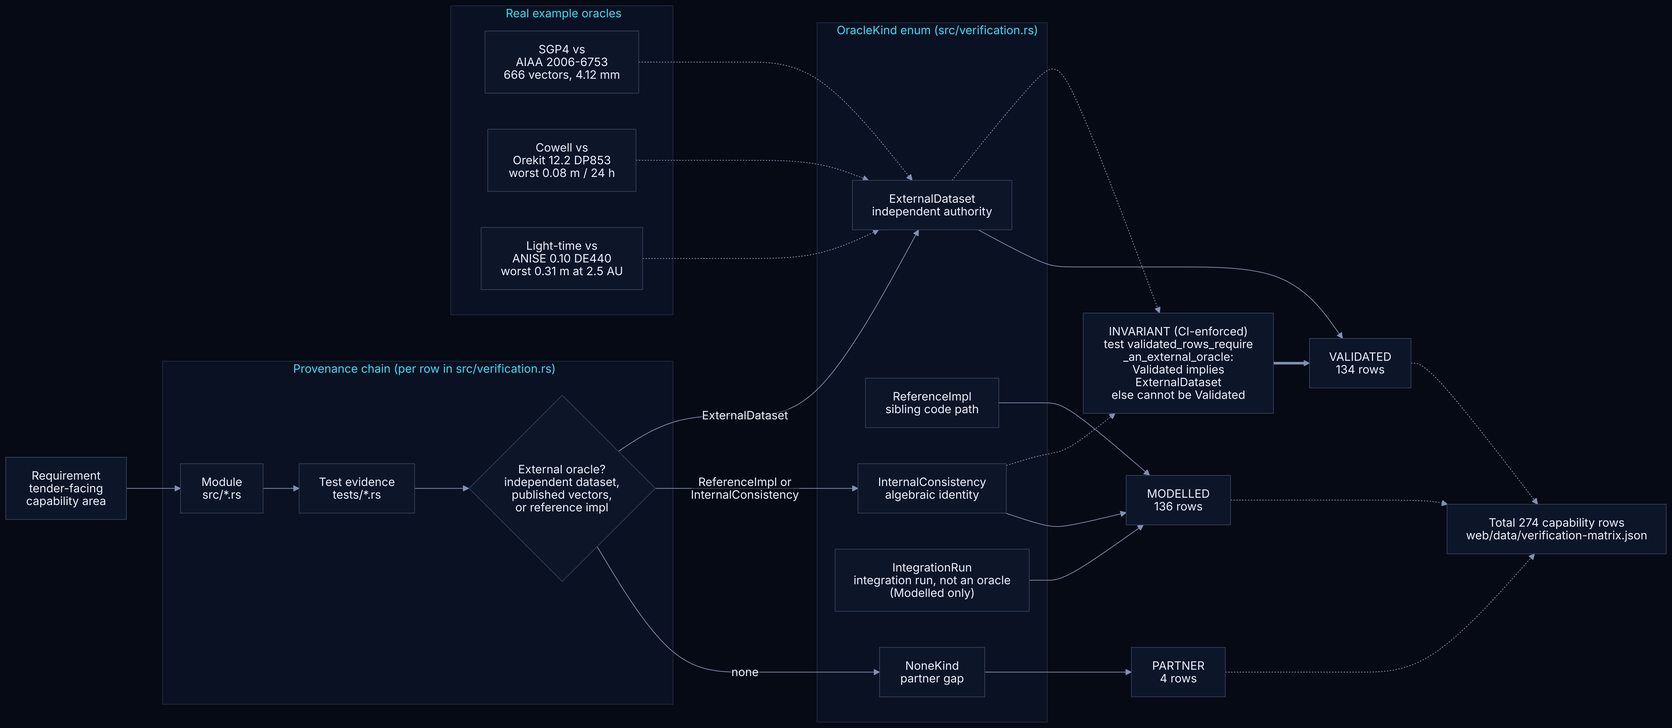
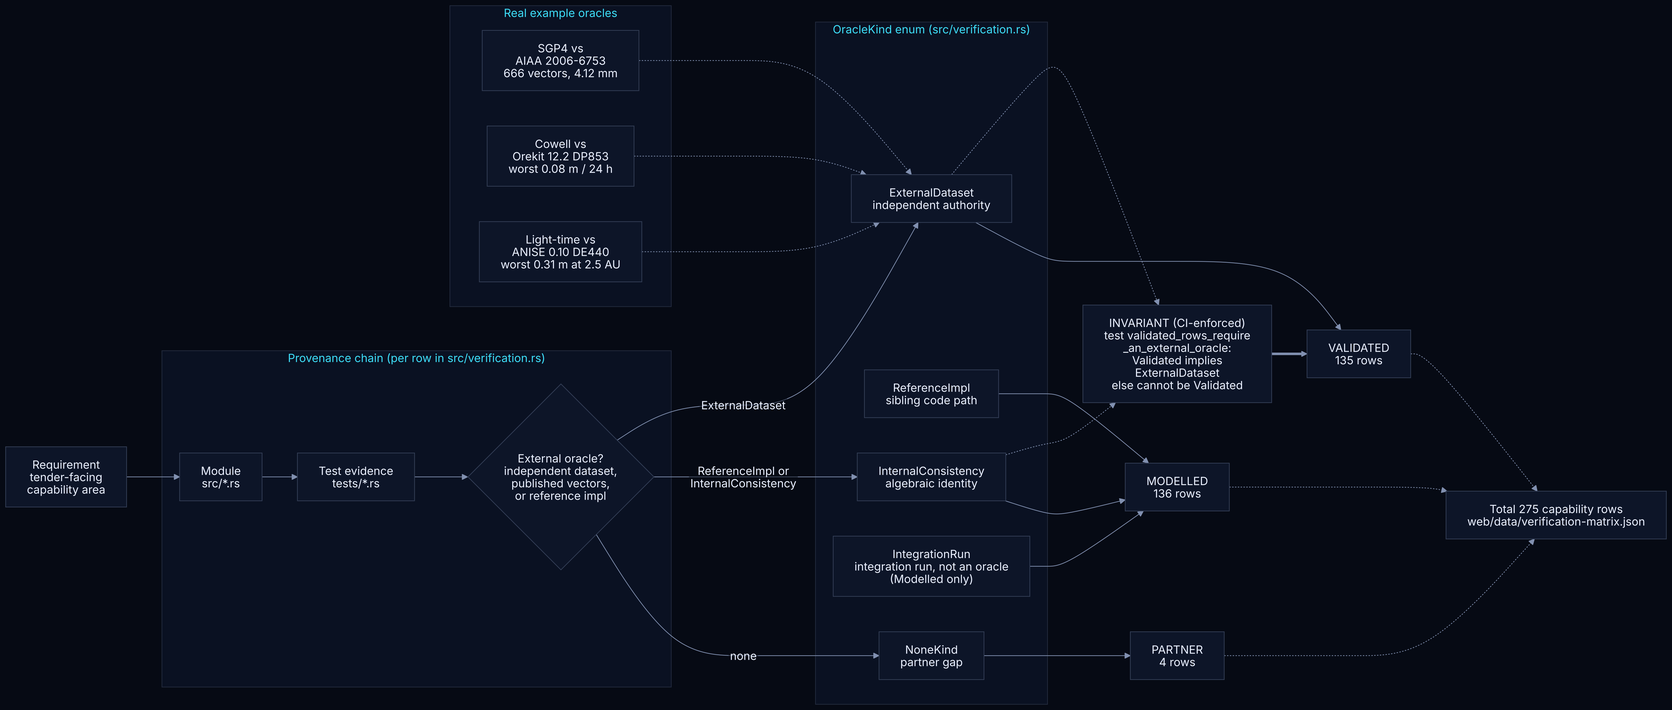
fix(gates): oracle basis for the ICGEM row; counts and figures regenerated for 275 rows; CAPABILITY note
The full suite flagged two gates on the new Validated row 'Gravity-anomaly synthesis from a
spherical-harmonic model':
- validated_oracle_basis gains its entry (Library: the ICGEM Calculation Service, cited
  test egm2008_n70_matches_cited_icgem_values).
- The matrix is now 275 rows, 135 VALIDATED / 136 MODELLED / 4 PARTNER. The README and
  package-README count sites named by the doc-sync tests are updated (the exempt Studio
  screenshot alt is left as is). docs/diagrams/validation-provenance.mmd is updated and
  re-rendered with mermaid-cli 11.4.2 and tools/render-diagram.sh (labels checked by eye).
  The validation figures are regenerated with tools/gen_validation_figures.py; PNGs whose
  SVG did not change are left untouched.
- README: 151 scenario files (the two new bundled scenarios).

docs/CAPABILITY.md: the alt-PNT row's stale "still missing" list is replaced by the 0.36 state.
The audit item "EMAG2 into terrain-nav" is covered by RM-16: terrain-nav is the DEM-only
single-channel matcher by design, and magnetic matching lives in combined-altpnt, which now
takes the EMAG2 grid.

Still red, known and outside this branch: the web/* count gates (263 rows, 75 kinds), fixed
by the final site run.

diff --git a/src/verification.rs b/src/verification.rs
@@ -3047,6 +3047,13 @@ pub fn validated_oracle_basis() -> Vec<OracleBasisEntry> {
             flag: "",
         },
         OracleBasisEntry {
+            requirement: "Gravity-anomaly synthesis from a spherical-harmonic model",
+            basis: Library,
+            oracle_test: "tests/icgem_gravity_anomaly_oracle.rs::egm2008_n70_matches_cited_icgem_values",
+            source: "ICGEM Calculation Service (GFZ Potsdam)",
+            flag: "",
+        },
+        OracleBasisEntry {
             requirement: "CCSDS OEM interoperability (GMAT/Orekit/STK ephemeris import)",
             basis: Library,
             oracle_test: "tests/ccsds_oem_interop_reference.rs",

diff --git a/docs/CAPABILITY.md b/docs/CAPABILITY.md
@@ -65,7 +65,7 @@ adjacent models are deliberately first-order and MODELLED, never validated fligh
 | Telemetry / TT&C / CCSDS | partial | bespoke TOML-in/JSON-out; **CCSDS OEM (Orbit Ephemeris Message) export *and import*** (502.0-B KVN (keyword-value notation), GMAT/Orekit/STK) via the runnable **`oem-interop` kind** (`src/oem.rs` `parse_oem` round-trip bridge; the conformant single-object interchange is **VALIDATED** against the independent `oem` 0.4.5 parser); **CCSDS-TDM (503) Tracking-Data-Message parse + emit** (`src/ccsds_tdm.rs`, the deep-space radiometric interchange format); and the **`space-packet` kind** (`src/space_packet.rs`): **CCSDS 133.0-B Space Packet** primary-header encode/decode with bit-exact round-trip. Other CCSDS message types (ODM/AEM (AEM: Attitude Ephemeris Message)) and SPICE interop remain a roadmap item (P2) |
 | Interoperability & standards (RINEX/SP3/SPICE/CCSDS) | partial | RINEX 3 **multi-GNSS NAV** — GPS, Galileo, QZSS, BeiDou MEO/IGSO (IS-GPS-200) **and GLONASS** (PZ-90 (PZ: Parametry Zemli, the Russian geodetic datum) state-vector RK4) — ingested + propagated + runnable as one mixed constellation; **RINEX 3 OBSERVATION parser** (pseudorange/carrier/Doppler/SNR by observation code, with LLI/SSI (LLI: loss-of-lock indicator; SSI: signal strength indicator) flags; 4.00 expected to parse, untested); SP3-c/d precise-ephemeris **read ↔ write round trip** (parse + export for Ginan/RTKLIB/gLAB) **and a 10th-order (11-point) Lagrange propagator** (`Propagator::Sp3Precise`); SP3 export is **CLI-exposed** (`kshana <orbit.toml> --export-sp3 out.sp3`, or `export_sp3 = true`) and **round-trip-validated** against the real GPS constellation to <0.5 m over 24 h (`tests/sp3_export_roundtrip.rs`); **CCSDS OEM 2.0 ephemeris writer** — the velocity-carrying TEME state export for flight-dynamics tools — now **CLI-exposed** (`kshana <orbit.toml> --export-oem out.oem`, or `export_oem = true`) and round-trip-checked against the propagator state (`tests/sp3_export_roundtrip.rs`). The **RINEX observation parser now feeds a single-point-positioning solution** (`pvt`, validated on real IGS data — see the GNSS / PNT row). Plus **CCSDS-TDM (503)** tracking-data-message parse + emit (`src/ccsds_tdm.rs`). Geometry exports for viewers and mission-analysis tools: **CZML, KML (Keyhole Markup Language), GeoJSON and STK ephemeris** (`--export`, `src/interop/`), each parsed back by a validator written from the format's specification (`tests/interop_formats.rs`), a GeoJSON route import (`--import-route`), **SigMF** (Signal Metadata Format) recordings in and out for the `spectrum` kind, and RINEX-4-style / CSV text for the LEO navigation message ([`INTEROP.md`](INTEROP.md), [`STANDARDS.md`](STANDARDS.md)). No BeiDou-GEO, no SP3 clock interpolation, no carrier-phase PPP/RTK, no SPICE / no ODM·AEM yet (the **OEM reader now exists** via the `oem-interop` kind) — **P2** "annex adjacent domains via standard formats" |
 | Space weather / environment (iono/atmo/radiation) | partial | `space-weather` kind (`src/space_weather.rs`): solar/geomagnetic indices (**Kp↔ap** IAGA (International Association of Geomagnetism and Aeronomy) 28-step table, daily Ap, centred 81-day **F10.7a**), **Jacchia-71 exospheric temperature**, and an **activity-driven thermospheric-density coupling** over a static atmosphere — MODELLED first-order, **NOT** an NRLMSISE absolute-density model. Ionosphere: the Klobuchar broadcast model (VALIDATED against RTKLIB) and an IONEX (IONosphere map EXchange format) TEC (total electron content) map reader (`src/ionex.rs`, unit-tested, not yet cross-checked against a real product); no physics-based or space-weather-driven ionosphere model; P2+ |
-| Gravity-map / alt-PNT navigation | partial | `src/gravimeter.rs`: a cold-atom **gravimeter measurement model** whose white-noise floor is derived from the CAI accelerometer ASD (`σ = ASD/√τ`), a low-degree **fully-normalised spherical-harmonic gravity-anomaly field** (validated against the closed-form Legendre functions and a hand-derived single-term anomaly) plus synthetic **mascons**, and a **gravity-map-matching particle filter** (composing `mapmatch` + `particle_filter`) that recovers a GPS-denied track from the anomaly sequence it flies through. The **60-minute GPS-denied benchmark** (`run_gps_denied_gravity_nav`, `scenarios/gps-denied-gravity-nav.toml`) flies a ~700 km / one-hour outage where the inertial solution drifts to **≈ 70 km**, and a **hierarchical coarse-to-fine** matcher with the gravimeter's deterministic seeded white noise recovers it to **≈ 145 m (< 500 m)** — stable across noise realisations, and provably refinement-limited (a single coarse grid stalls at ~2 km). Plus a **full IGRF-14 (IGRF: International Geomagnetic Reference Field) geomagnetic main-field model** (`src/igrf.rs`: the IAGA Schmidt-normalised spherical-harmonic field to degree/order 13, 2025.0 + secular variation, coefficients machine-generated from the official `igrf14coeffs.txt`; validated against the closed-form tilted dipole, a finite-difference of the scalar potential, and the known geomagnetic pole/strength) — the magnetic field a platform can map-match for magnetic-anomaly navigation. Plus **terrain-referenced navigation (TERCOM/SITAN (TERCOM: terrain contour matching; SITAN: Sandia Inertial Terrain-Aided Navigation))** and the **combined gravity+magnetic+terrain navigator** (`src/altpnt/terrain.rs`): a hand-rolled SRTM (Shuttle Radar Topography Mission) `.hgt` digital-elevation-model (DEM) parser (16-bit signed big-endian, row-major, north-row-first, void -32768; validated against the GDAL (Geospatial Data Abstraction Library) SRTMHGT (Shuttle Radar Topography Mission height-file format) driver spec and a closed-form bilinear-midpoint oracle), a radar/baro **altimeter** model and `run_terrain_nav` matcher that recovers a GPS-denied track from the ground-elevation profile against the DEM, and `run_combined_altpnt` which fuses **three scalar field channels** per waypoint (Δg mGal · |B| nT crustal-anomaly · elevation m) so the joint posterior is sharper (lower CRLB (Cramér–Rao lower bound)) than any single field — bounded < 500 m over the 60-min outage and, in expectation, no worse than the best single channel. Plus **sequential (recursive) terrain-referenced navigation — SITAN as a running filter** (`src/altpnt/sequential.rs`, `run_sequential_trn`): the same altimeter-vs-DEM measurement model run **epoch by epoch** through the `particle_filter` SIR (sampling importance resampling) engine (predict by the INS increment + process noise → reweight by the terrain match → resample on degeneracy), so a **time-varying** INS drift is *tracked* along the track where the batch matcher only recovers a single constant offset — the recursive estimate stays bounded and re-converges (final ≈ 70 m) while the unaided solution diverges unbounded to ≈ 5 km, with per-epoch error following terrain distinctiveness and an effective-sample-size health monitor. Honest scope: the map is **known and fixed** — recursive *localization* against a stored DEM (the localization half of terrain SLAM (simultaneous localisation and mapping)), not joint map estimation. All four are now **scenario-engine `kind=` wired** (`gravity-map`, `terrain-nav`, `combined-altpnt`, `terrain-slam`) with an SVG drift chart (`scenarios/terrain-nav.toml`, `scenarios/combined-altpnt.toml`, `scenarios/terrain-slam.toml`). **Still missing: a real high-resolution gravity map in the navigator** — the loader exists (`gravity_sh::from_gfc` reads ICGEM EGM2008 (Earth Gravitational Model 2008) or EIGEN (European Improved Gravity model of the Earth by New techniques) files, and the synthesis is VALIDATED against the GRS80 (Geodetic Reference System 1980) normal field), but the `gravity-map` navigator still flies a low-degree field plus mascons, a Monte-Carlo over map-representation-error realisations, and a real high-frequency **crustal** magnetic-anomaly map (the magnetic channel rides on the smooth IGRF main field plus synthetic crustal mascons; the CI terrain field is the self-contained synthetic DEM, with `#[ignore]`-gated real-SRTM-tile checks against published Whitney/Badwater spot-heights via `tools/fetch_srtm_tile.py`). P3 |
+| Gravity-map / alt-PNT navigation | partial | `src/gravimeter.rs`: a cold-atom **gravimeter measurement model** whose white-noise floor is derived from the CAI accelerometer ASD (`σ = ASD/√τ`), a low-degree **fully-normalised spherical-harmonic gravity-anomaly field** (validated against the closed-form Legendre functions and a hand-derived single-term anomaly) plus synthetic **mascons**, and a **gravity-map-matching particle filter** (composing `mapmatch` + `particle_filter`) that recovers a GPS-denied track from the anomaly sequence it flies through. The **60-minute GPS-denied benchmark** (`run_gps_denied_gravity_nav`, `scenarios/gps-denied-gravity-nav.toml`) flies a ~700 km / one-hour outage where the inertial solution drifts to **≈ 70 km**, and a **hierarchical coarse-to-fine** matcher with the gravimeter's deterministic seeded white noise recovers it to **≈ 145 m (< 500 m)** — stable across noise realisations, and provably refinement-limited (a single coarse grid stalls at ~2 km). Plus a **full IGRF-14 (IGRF: International Geomagnetic Reference Field) geomagnetic main-field model** (`src/igrf.rs`: the IAGA Schmidt-normalised spherical-harmonic field to degree/order 13, 2025.0 + secular variation, coefficients machine-generated from the official `igrf14coeffs.txt`; validated against the closed-form tilted dipole, a finite-difference of the scalar potential, and the known geomagnetic pole/strength) — the magnetic field a platform can map-match for magnetic-anomaly navigation. Plus **terrain-referenced navigation (TERCOM/SITAN (TERCOM: terrain contour matching; SITAN: Sandia Inertial Terrain-Aided Navigation))** and the **combined gravity+magnetic+terrain navigator** (`src/altpnt/terrain.rs`): a hand-rolled SRTM (Shuttle Radar Topography Mission) `.hgt` digital-elevation-model (DEM) parser (16-bit signed big-endian, row-major, north-row-first, void -32768; validated against the GDAL (Geospatial Data Abstraction Library) SRTMHGT (Shuttle Radar Topography Mission height-file format) driver spec and a closed-form bilinear-midpoint oracle), a radar/baro **altimeter** model and `run_terrain_nav` matcher that recovers a GPS-denied track from the ground-elevation profile against the DEM, and `run_combined_altpnt` which fuses **three scalar field channels** per waypoint (Δg mGal · |B| nT crustal-anomaly · elevation m) so the joint posterior is sharper (lower CRLB (Cramér–Rao lower bound)) than any single field — bounded < 500 m over the 60-min outage and, in expectation, no worse than the best single channel. Plus **sequential (recursive) terrain-referenced navigation — SITAN as a running filter** (`src/altpnt/sequential.rs`, `run_sequential_trn`): the same altimeter-vs-DEM measurement model run **epoch by epoch** through the `particle_filter` SIR (sampling importance resampling) engine (predict by the INS increment + process noise → reweight by the terrain match → resample on degeneracy), so a **time-varying** INS drift is *tracked* along the track where the batch matcher only recovers a single constant offset — the recursive estimate stays bounded and re-converges (final ≈ 70 m) while the unaided solution diverges unbounded to ≈ 5 km, with per-epoch error following terrain distinctiveness and an effective-sample-size health monitor. Honest scope: the map is **known and fixed** — recursive *localization* against a stored DEM (the localization half of terrain SLAM (simultaneous localisation and mapping)); joint map estimation is the separate RBPF below. All four are now **scenario-engine `kind=` wired** (`gravity-map`, `terrain-nav`, `combined-altpnt`, `terrain-slam`) with an SVG drift chart (`scenarios/terrain-nav.toml`, `scenarios/combined-altpnt.toml`, `scenarios/terrain-slam.toml`). **0.36 (WP-10):** the `gravity-map` navigator takes an opt-in real reference field (`[reference]`: bundled EGM2008 to degree 70, or an ICGEM `.gfc` file), whose anomaly synthesis matches the ICGEM Calculation Service to about 1e-8 mGal (VALIDATED, `xval/icgem-egm2008/`); on that degree-70 field the 60-min benchmark ends at 3106 m, so the < 500 m bar is NOT MET (pre-registered and predicted: degree 70 is too smooth). An opt-in map-error Monte Carlo (`[map_error_mc]`, `scenarios/gravity-map-error-mc.toml`) shows the synthetic 144 m fix assumes an exact map (1 of 20 realisations within 500 m under a 2 mGal correlated error; exploratory). `combined-altpnt` takes an opt-in EMAG2v3 crustal magnetic grid (`[magnetic_grid]`; EMAG2 is fetched, not vendored, and no navigation outcome is claimed on it). `terrain-nav` stays DEM-only by design: it is the single-channel TERCOM/SITAN matcher, and magnetic matching lives in `combined-altpnt`, which fuses terrain with the magnetic and gravity channels; a magnetic channel in `terrain-nav` would duplicate it, so the audit item "EMAG2 into terrain-nav" is covered by the `combined-altpnt` wiring (RM-16). The real-SRTM checks run in CI on two committed full-resolution crops (node-for-node equal to GDAL 3.8.4, `xval/srtm-ungate/`). Joint map estimation exists (`run_sequential_trn_on_map`, a FastSLAM-style RBPF): on a single pass it gains 1.5 % over known-map SITAN on an erroneous map, missing its pre-registered 10 % bar (`xval/terrain-slam-rbpf/`). **Still missing:** a high-degree gravity model in a navigation run (needs a new pre-registration), a real-grid magnetic navigation outcome, and a revisiting (loop-closure) SLAM case. P3 |
 | Re-entry / EDL (entry, descent and landing), Launch analysis, EO/payload (EO: Earth observation) | partial | First-order MODELLED geometry via three runnable kinds: **`reentry`** (`src/reentry.rs`, **Allen-Eggers** ballistic corridor — peak deceleration, peak-g and peak-heating velocities, peak-g altitude), **`launch-window`** (`src/launch.rs`, two-body **launch azimuth** `sin Az = cos i/cos lat`, plane-change Δv, site-rotation bonus, daily opportunities), and **`eo-coverage`** (`src/eo_payload.rs`, SMAD (Space Mission Analysis and Design) space-triangle EO **swath / GSD (ground sample distance) / access / revisit** geometry). **No** 6-DoF EDL/aerothermal sim, no trajectory optimiser, no sensor radiometry/MTF (MTF: modulation transfer function). P3 |
 | Lunar / cislunar PNT (LunaNet) | partial | `src/lunar.rs`: a **lunar ARAIM** engine reusing the Earth-side MHSS core with LunaNet LNIS (LunaNet Interoperability Specification) parameters (σ_URE ≈ 30 m, P_sat ≈ 1e-4), the **MCI↔MCMF (MCI: Moon-centred inertial; MCMF: Moon-centred, Moon-fixed) cislunar frame reduction** (`mci_to_mcmf` / `mcmf_to_mci`, a simplified mean-rotation model at the sidereal rate) and **selenographic** lat/lon/alt (`mcmf_to_selenographic`), and a **south-pole protection-level pass** (`south_pole_hpl_pass`) that quantifies the integrity gap — with 30 m ranging the HPL is finite but exceeds a 50 m surface-ops alert limit. `src/cr3bp.rs` adds the Earth–Moon **CR3BP** (circular restricted three-body problem) (rotating-frame dynamics + RK4 propagator + Jacobi constant + the five Lagrange points, validated against the published L1/L2/L3 values and the exact L4/L5) — the three-body core a real NRHO (near-rectilinear halo orbit) needs — and a **state-transition-matrix + single-shooting differential corrector** (`cr3bp_jacobian`, `propagate_state_stm`, `differential_correct_halo`) that produces genuinely periodic L2 halo/NRHO orbits: the STM is validated against finite differences, corrected halos close on themselves to machine precision (Jacobi-conserving), and seeding the published apolune state reproduces the **L2 southern 9:2 NRHO** (the Gateway orbit) at **period ≈ 6.57 d** and **perilune ≈ 3,250 km** — consistent with the published ≈ 6.56 d / ≈ 3,370 km | The differential-corrected NRHO ICs (initial conditions) are now wired in, but the **de-normalised selenocentric (MCI/MCMF) transform of the corrected orbit** and family-continuation are still follow-ons; the MCMF model omits physical libration / the precessing lunar pole (no DE421/SPICE (DE421: Development Ephemeris 421)); the NRHO is a CR3BP (circular, Sun-free) solution, **not** validated against a real LANS/Gateway (LANS: Lunar Augmented Navigation Service) ephemeris; a runnable `lunar-integrity` scenario kind (`scenarios/lunanet-araim.toml`) exposes the south-pole pass from the CLI | selenocentric transform + family continuation + SPICE/LunaNet interface: **P3** |
 | Deep-space / interplanetary PNT (Mars, radiometric) | partial | **Shipped v0.17.0.** A radiometric navigation engine: iterative light-time + Shapiro delay, two-/one-/three-way Doppler & range (Moyer two-leg), coherent transponder turnaround, regenerative/PN (PN: pseudo-noise) ranging (CCSDS 414), Δ-DOR (CCSDS 506), solar-plasma/tropo/iono media (`src/radiometric.rs`); **CCSDS-TDM (503)** parse + emit (`src/ccsds_tdm.rs`); a **reduced-dynamic SRIF** (square-root information filter) with RTN (radial, transverse, normal) empirical accelerations + a 3-state onboard clock + Mars drag (`src/deepspace_od.rs`, `clock_state.rs`, `mars_atmos.rs`) doing **Mars-LMO (LMO: low Mars orbit) OD ≈ 0.2 m** in a synthetic closed loop; one-way+two-way fusion; a multi-body dynamics core (`src/body.rs`, Mars GMM-3 (GMM: Goddard Mars Model), IAU Mars frame `src/mars_frame.rs`, an `EphemerisProvider` seam `src/ephem_provider.rs`, two-part JD + TT↔TDB (TDB: Barycentric Dynamical Time)); and the **`mars-pnt`** relay-PNT scenario (MARCONI areostationary constellation, `src/mars_pnt.rs`) + an end-to-end GSE performance simulator (`src/gse_sim.rs`). **Simulation-validated** (covariance/closed-loop FoM); Sun-central dynamics cross-checked vs JPL (Jet Propulsion Laboratory) DE440 (137 m @ 1-day arc, `xval/anise-mars-od`). **Missing:** real DSN/ESTRACK (ESTRACK: European Space Tracking network) tracking-data validation; a high-fidelity Mars gravity loader beyond GMM-3 d/o 4; DE-grade ephemeris in the core (kernel-gated in xval). P3 |

diff --git a/README.md b/README.md
@@ -20,7 +20,7 @@
 <p align="center">
   <a href="https://github.com/ashfordeOU/kshana/actions/workflows/ci.yml"><img src="https://img.shields.io/github/actions/workflow/status/ashfordeOU/kshana/ci.yml?branch=main&event=push&label=CI&style=flat-square&labelColor=0A1226" height="18" alt="Continuous integration status on main"></a>
   <a href="docs/COVERAGE.md"><img src="https://img.shields.io/badge/coverage-~95%25-377D0C?style=flat-square&labelColor=0A1226" height="18" alt="Line coverage near 95 % of src/, measured in docs/COVERAGE.md and gated at 85 % in continuous integration"></a>
-  <a href="#evidence"><img src="https://img.shields.io/badge/validated-134%2F274-377D0C?style=flat-square&labelColor=0A1226" height="18" alt="134 of 274 capabilities VALIDATED against an independent external oracle, from the verification matrix"></a>
+  <a href="#evidence"><img src="https://img.shields.io/badge/validated-135%2F275-377D0C?style=flat-square&labelColor=0A1226" height="18" alt="135 of 275 capabilities VALIDATED against an independent external oracle, from the verification matrix"></a>
   <a href="https://sonarcloud.io/summary/overall?id=ashfordeOU_kshana"><img src="https://img.shields.io/sonar/quality_gate/ashfordeOU_kshana?server=https%3A%2F%2Fsonarcloud.io&label=quality&style=flat-square&labelColor=0A1226" height="18" alt="SonarQube Cloud quality gate status"></a>
   <a href="https://github.com/ashfordeOU/kshana/releases"><img src="https://img.shields.io/badge/release-v0.35.0-066A86?style=flat-square&labelColor=0A1226" height="18" alt="Release v0.35.0"></a>
   <a href="LICENSE"><img src="https://img.shields.io/badge/licence-AGPL--3.0-3F4B67?style=flat-square&labelColor=0A1226" height="18" alt="Licence: AGPL-3.0-only"></a>
@@ -521,7 +521,7 @@ start from.
 
 <p><a href="docs/SGP4-VALIDATION.md"><img src="https://img.shields.io/badge/SGP4-666%2F666%20AIAA%20vectors%20%C2%B7%20worst%204.12%20mm-377D0C?style=flat-square&labelColor=0A1226" alt="SGP4 checked against all 666 AIAA 2006-6753 reference vectors, worst position error 4.12 mm"></a></p>
 
-<strong>134 of 274</strong> capabilities validated against independent external oracles; 136 honestly labelled Modelled.
+<strong>135 of 275</strong> capabilities validated against independent external oracles; 136 honestly labelled Modelled.
 Each row of the verification matrix names a capability, the oracle it is checked against,
 the test that runs the check, and the label that follows. Continuous integration (CI) makes
 it impossible to call a capability VALIDATED without an independent external oracle.
@@ -529,12 +529,12 @@ it impossible to call a capability VALIDATED without an independent external ora
 <picture>
   <source media="(prefers-color-scheme: dark)" srcset="docs/assets/readme/flow-verification-dark.svg">
   <source media="(prefers-color-scheme: light)" srcset="docs/assets/readme/flow-verification-light.svg">
-  <img src="docs/assets/readme/flow-verification-light.svg" alt="How a capability earns its label. Each row of the verification matrix names a capability, the oracle it is checked against, the test that runs the check in continuous integration, and the label that follows. A row may be VALIDATED only with an independent external oracle; otherwise it is MODELLED, or PARTNER when a hardware partner owns it. Example: SGP4/SDP4, Cowell 6-DOF + perturbations, batch/sequential OD, oracle AIAA 2006-6753 SGP4 verification vectors, test tests/sgp4_verification.rs, label VALIDATED. Live counts: 134 VALIDATED, 136 MODELLED, 4 PARTNER of 274 rows. In all, 134 capabilities validated against independent external oracles; 136 more are honestly labelled MODELLED and 4 are PARTNER-owned." width="100%">
+  <img src="docs/assets/readme/flow-verification-light.svg" alt="How a capability earns its label. Each row of the verification matrix names a capability, the oracle it is checked against, the test that runs the check in continuous integration, and the label that follows. A row may be VALIDATED only with an independent external oracle; otherwise it is MODELLED, or PARTNER when a hardware partner owns it. Example: SGP4/SDP4, Cowell 6-DOF + perturbations, batch/sequential OD, oracle AIAA 2006-6753 SGP4 verification vectors, test tests/sgp4_verification.rs, label VALIDATED. Live counts: 135 VALIDATED, 136 MODELLED, 4 PARTNER of 275 rows. In all, 135 capabilities validated against independent external oracles; 136 more are honestly labelled MODELLED and 4 are PARTNER-owned." width="100%">
 </picture>
 
 | Label | Rows | Meaning |
 |---|---|---|
-| VALIDATED | 134 | an independent external oracle agrees: real data, an independent implementation or published reference vectors |
+| VALIDATED | 135 | an independent external oracle agrees: real data, an independent implementation or published reference vectors |
 | MODELLED | 136 | checked against analytic truth or simulation self-consistency, and said out loud |
 | PARTNER | 4 | owned by a hardware partner; Kshana holds no oracle for it |
 
@@ -544,7 +544,7 @@ model to 0.08 m against Orekit 12.2; Galileo to 0.61 m and Swarm-A to 0.10 m aga
 precise ephemerides of the European Space Agency (ESA). Tests hold near 95 % line coverage of
 `src/`, gated at 85 % in CI. The ledger is
 [`docs/VERIFICATION-MATRIX.md`](docs/VERIFICATION-MATRIX.md), generated from
-`src/verification.rs`: the [full 274-row matrix](docs/VERIFICATION-MATRIX.md), and why each
+`src/verification.rs`: the [full 275-row matrix](docs/VERIFICATION-MATRIX.md), and why each
 Modelled row has no external oracle in [`docs/MODELLED-RATIONALE.md`](docs/MODELLED-RATIONALE.md).
 
 <details>
@@ -566,7 +566,7 @@ Modelled row has no external oracle in [`docs/MODELLED-RATIONALE.md`](docs/MODEL
 ### Validation at a glance
 
 Every row is enforced by a named test in CI. This table is a **curated highlight**;
-the full machine-checked matrix is **274 rows — 134 VALIDATED, 136 MODELLED, 4 PARTNER**
+the full machine-checked matrix is **275 rows — 135 VALIDATED, 136 MODELLED, 4 PARTNER**
 (`src/verification.rs`), with the complete evidence (and what is honestly *not* yet
 validated) in [`docs/VALIDATION.md`](docs/VALIDATION.md) and the per-release
 [`kshana-validation-summary.html`](https://github.com/ashfordeOU/kshana/releases)
@@ -618,20 +618,20 @@ The **Status** column states the *kind* of evidence, matching the validation lad
 | CI | Test coverage | **~95 % line** on `src/` excluding `src/*_data.rs` and `src/main.rs`, gated ≥ 85 % | cargo-tarpaulin (LLVM engine) |
 
 <p align="center">
-  <img src="docs/assets/diagrams/validation-provenance.png" alt="How a capability earns its label: Requirement maps to a module in src, to a test in tests, to an external oracle (real dataset, independent reference implementation, or published vectors), to a status — with a CI-enforced guard that no capability can be Validated without an external oracle. Live counts: 134 Validated, 136 Modelled, 4 Partner, 274 total" width="900">
+  <img src="docs/assets/diagrams/validation-provenance.png" alt="How a capability earns its label: Requirement maps to a module in src, to a test in tests, to an external oracle (real dataset, independent reference implementation, or published vectors), to a status — with a CI-enforced guard that no capability can be Validated without an external oracle. Live counts: 135 Validated, 136 Modelled, 4 Partner, 275 total" width="900">
   <br><sub>How a capability earns its label — the CI-enforced invariant: no external oracle ⇒ cannot be Validated · <a href="docs/assets/diagrams/validation-provenance.svg">SVG</a></sub>
 </p>
 
 <p align="center">
-  <img src="docs/assets/figures/oracle-kind-stacked.png" alt="How each claim is backed: the Validated column is 134 of 134 ExternalDataset by construction (CI-enforced); Modelled rows are honestly tagged InternalConsistency, ReferenceImpl, or ExternalDataset; Partner rows have no Kshana oracle" width="62%">
+  <img src="docs/assets/figures/oracle-kind-stacked.png" alt="How each claim is backed: the Validated column is 135 of 135 ExternalDataset by construction (CI-enforced); Modelled rows are honestly tagged InternalConsistency, ReferenceImpl, or ExternalDataset; Partner rows have no Kshana oracle" width="62%">
   <br>
   <img src="docs/assets/figures/sgp4-regime-bars.png" alt="SGP4/SDP4 worst-case position error vs the AIAA 2006-6753 reference by regime, log scale: every regime is far below the AIAA tolerance, worst case 4.12 mm in the deep-space non-resonant regime" width="96%">
   <br><sub>Top: every Validated row is backed by an external dataset, by construction. Bottom: SGP4 matches the official reference in every regime (worst 4.12 mm). <a href="docs/assets/figures/oracle-kind-stacked.svg">SVG</a> · <a href="docs/assets/figures/sgp4-regime-bars.svg">SVG</a></sub>
 </p>
 
 <p align="center">
-  <img src="docs/assets/figures/validation-breakdown.png" alt="Verification status across all 274 capabilities: 134 Validated (checked vs external oracle), 136 Modelled, 4 Partner-owned" width="780">
-  <br><sub>134 Validated · 136 Modelled · 4 Partner — <a href="docs/assets/figures/validation-breakdown.svg">SVG</a></sub>
+  <img src="docs/assets/figures/validation-breakdown.png" alt="Verification status across all 275 capabilities: 135 Validated (checked vs external oracle), 136 Modelled, 4 Partner-owned" width="780">
+  <br><sub>135 Validated · 136 Modelled · 4 Partner — <a href="docs/assets/figures/validation-breakdown.svg">SVG</a></sub>
 </p>
 
 </details>
@@ -725,7 +725,7 @@ top as a separate overlay that depends on the engine and never forks it.
 <picture>
   <source media="(prefers-color-scheme: dark)" srcset="docs/assets/readme/architecture-dark.svg">
   <source media="(prefers-color-scheme: light)" srcset="docs/assets/readme/architecture-light.svg">
-  <img src="docs/assets/readme/architecture-light.svg" alt="Kshana's architecture: one open engine at the centre, kshana 0.35.0 under the AGPL-3.0, with api::run_toml, a typed dispatch over 76 kinds, and the verification ledger of 274 capabilities (134 VALIDATED, 136 MODELLED, 4 PARTNER). Around it, every surface runs the same engine: Command line (cargo install kshana); Rust library (cargo add kshana); Python (pip install kshana); WebAssembly + Kshana Studio (npm install kshana); MCP server (cargo install kshana-mcp); Docker image (ghcr.io/ashfordeou/kshana-mcp); JetBrains plugin (Marketplace: &quot;Kshana&quot;). Below it, Kshana Pro, a proprietary overlay that depends on the open engine as a library and never forks it, and adds no physical model." width="100%">
+  <img src="docs/assets/readme/architecture-light.svg" alt="Kshana's architecture: one open engine at the centre, kshana 0.35.0 under the AGPL-3.0, with api::run_toml, a typed dispatch over 76 kinds, and the verification ledger of 275 capabilities (135 VALIDATED, 136 MODELLED, 4 PARTNER). Around it, every surface runs the same engine: Command line (cargo install kshana); Rust library (cargo add kshana); Python (pip install kshana); WebAssembly + Kshana Studio (npm install kshana); MCP server (cargo install kshana-mcp); Docker image (ghcr.io/ashfordeou/kshana-mcp); JetBrains plugin (Marketplace: &quot;Kshana&quot;). Below it, Kshana Pro, a proprietary overlay that depends on the open engine as a library and never forks it, and adds no physical model." width="100%">
 </picture>
 
 <details>
@@ -734,7 +734,7 @@ top as a separate overlay that depends on the engine and never forks it.
 <picture>
   <source media="(prefers-color-scheme: dark)" srcset="docs/assets/readme/flow-architecture-dark.svg">
   <source media="(prefers-color-scheme: light)" srcset="docs/assets/readme/flow-architecture-light.svg">
-  <img src="docs/assets/readme/flow-architecture-light.svg" alt="Kshana's architecture in layers. Five front doors (command line, Python, JavaScript and WebAssembly, the MCP server and the JetBrains plugin) reach one api::run_toml, a typed dispatch over 76 kinds. Beneath it sit eight domain layers: time and frames, clocks and timing, inertial and fusion, GNSS and integrity, astrodynamics, LEO PNT, Moon, Mars and deep space, and missions and studies, on a shared core, all cross-referenced by the verification module, the machine-checked matrix of 274 capabilities that is the single source of truth for every label." width="100%">
+  <img src="docs/assets/readme/flow-architecture-light.svg" alt="Kshana's architecture in layers. Five front doors (command line, Python, JavaScript and WebAssembly, the MCP server and the JetBrains plugin) reach one api::run_toml, a typed dispatch over 76 kinds. Beneath it sit eight domain layers: time and frames, clocks and timing, inertial and fusion, GNSS and integrity, astrodynamics, LEO PNT, Moon, Mars and deep space, and missions and studies, on a shared core, all cross-referenced by the verification module, the machine-checked matrix of 275 capabilities that is the single source of truth for every label." width="100%">
 </picture>
 
 **One engine, many front doors.** A single Rust core (`kshana`) runs every scenario,
@@ -1489,7 +1489,7 @@ paper-clock). **MODELLED** — the headline figure is *reference-dependent* (Ear
 vs lunar selenoid, averaging window), which is why a band, not a single certified
 number, is reported (`scenarios/lunar-time-offset.toml`).
 
-See `scenarios/` for at least one worked example of every kind (76 kinds, 149 scenario
+See `scenarios/` for at least one worked example of every kind (76 kinds, 151 scenario
 `.toml` files + 1 suite manifest — several kinds ship more than one example). Not every
 kind has a file named after it: `lunar-integrity` → `scenarios/lunanet-araim.toml` and
 `gravity-map` → `scenarios/gps-denied-gravity-nav.toml` are two of several such.

diff --git a/README.crates.md b/README.crates.md
@@ -17,7 +17,7 @@
 
 <p align="center">
   <a href="https://github.com/AshfordeOU/kshana/releases"><img src="https://img.shields.io/badge/release-v0.35.0-066A86?style=flat-square&labelColor=0A1226" alt="Release v0.35.0"></a>
-  <a href="https://github.com/AshfordeOU/kshana/blob/main/docs/VERIFICATION-MATRIX.md"><img src="https://img.shields.io/badge/validated-134%20external%20oracles-377D0C?style=flat-square&labelColor=0A1226" alt="134 of 274 capabilities validated against independent external oracles"></a>
+  <a href="https://github.com/AshfordeOU/kshana/blob/main/docs/VERIFICATION-MATRIX.md"><img src="https://img.shields.io/badge/validated-135%20external%20oracles-377D0C?style=flat-square&labelColor=0A1226" alt="135 of 275 capabilities validated against independent external oracles"></a>
   <a href="https://github.com/AshfordeOU/kshana/blob/main/docs/COVERAGE.md"><img src="https://img.shields.io/badge/coverage-~95%25-377D0C?style=flat-square&labelColor=0A1226" alt="About 95% line coverage, gated at 85% in continuous integration"></a>
   <a href="https://github.com/AshfordeOU/kshana/blob/main/LICENSE"><img src="https://img.shields.io/badge/licence-AGPL--3.0--only-3F4B67?style=flat-square&labelColor=0A1226" alt="Licence: AGPL-3.0-only, or a commercial licence"></a>
   <a href="https://doi.org/10.5281/zenodo.20528627"><img src="https://img.shields.io/badge/DOI-10.5281%2Fzenodo.20528627-7E4B00?style=flat-square&labelColor=0A1226" alt="DOI 10.5281/zenodo.20528627"></a>
@@ -40,7 +40,7 @@ engine in your browser, compiled to WebAssembly, and uploads nothing.
 
 ## Evidence
 
-**134 of 274** capabilities validated against independent external oracles; 136 honestly labelled Modelled, 4 partner-owned.
+**135 of 275** capabilities validated against independent external oracles; 136 honestly labelled Modelled, 4 partner-owned.
 Each capability carries one label in a machine-checked ledger: VALIDATED (an independent
 external oracle agrees: real data, an independent implementation or published reference
 vectors), MODELLED (internally consistent, and said out loud) or PARTNER (a hardware partner
@@ -51,7 +51,7 @@ Cowell force model to 0.08 m against Orekit 12.2.
 <p align="center">
 <picture>
   <source media="(prefers-color-scheme: dark)" srcset="https://raw.githubusercontent.com/AshfordeOU/kshana/main/docs/assets/readme/flow-verification-dark.svg">
-  <img src="https://raw.githubusercontent.com/AshfordeOU/kshana/main/docs/assets/readme/flow-verification-light.svg" alt="How a capability earns its label: capability, oracle, test, ledger label. The verification status across all 274 capabilities: 134 Validated, 136 Modelled, 4 Partner-owned" width="100%">
+  <img src="https://raw.githubusercontent.com/AshfordeOU/kshana/main/docs/assets/readme/flow-verification-light.svg" alt="How a capability earns its label: capability, oracle, test, ledger label. The verification status across all 275 capabilities: 135 Validated, 136 Modelled, 4 Partner-owned" width="100%">
 </picture>
 </p>
 

diff --git a/README.npm.md b/README.npm.md
@@ -18,7 +18,7 @@
 
 <p align="center">
   <a href="https://github.com/AshfordeOU/kshana/releases"><img src="https://img.shields.io/badge/release-v0.35.0-066A86?style=flat-square&labelColor=0A1226" alt="Release v0.35.0"></a>
-  <a href="https://github.com/AshfordeOU/kshana/blob/main/docs/VERIFICATION-MATRIX.md"><img src="https://img.shields.io/badge/validated-134%20external%20oracles-377D0C?style=flat-square&labelColor=0A1226" alt="134 of 274 capabilities validated against independent external oracles"></a>
+  <a href="https://github.com/AshfordeOU/kshana/blob/main/docs/VERIFICATION-MATRIX.md"><img src="https://img.shields.io/badge/validated-135%20external%20oracles-377D0C?style=flat-square&labelColor=0A1226" alt="135 of 275 capabilities validated against independent external oracles"></a>
   <a href="https://github.com/AshfordeOU/kshana/blob/main/docs/COVERAGE.md"><img src="https://img.shields.io/badge/coverage-~95%25-377D0C?style=flat-square&labelColor=0A1226" alt="About 95% line coverage, gated at 85% in continuous integration"></a>
   <a href="https://github.com/AshfordeOU/kshana/blob/main/LICENSE"><img src="https://img.shields.io/badge/licence-AGPL--3.0--only-3F4B67?style=flat-square&labelColor=0A1226" alt="Licence: AGPL-3.0-only, or a commercial licence"></a>
   <a href="https://doi.org/10.5281/zenodo.20528627"><img src="https://img.shields.io/badge/DOI-10.5281%2Fzenodo.20528627-7E4B00?style=flat-square&labelColor=0A1226" alt="DOI 10.5281/zenodo.20528627"></a>
@@ -41,7 +41,7 @@ engine in your browser, compiled to WebAssembly, and uploads nothing.
 
 ## Evidence
 
-**134 of 274** capabilities validated against independent external oracles; 136 honestly labelled Modelled, 4 partner-owned.
+**135 of 275** capabilities validated against independent external oracles; 136 honestly labelled Modelled, 4 partner-owned.
 Each capability carries one label in a machine-checked ledger: VALIDATED (an independent
 external oracle agrees: real data, an independent implementation or published reference
 vectors), MODELLED (internally consistent, and said out loud) or PARTNER (a hardware partner
@@ -52,7 +52,7 @@ Cowell force model to 0.08 m against Orekit 12.2.
 <p align="center">
 <picture>
   <source media="(prefers-color-scheme: dark)" srcset="https://raw.githubusercontent.com/AshfordeOU/kshana/main/docs/assets/readme/flow-verification-dark.svg">
-  <img src="https://raw.githubusercontent.com/AshfordeOU/kshana/main/docs/assets/readme/flow-verification-light.svg" alt="How a capability earns its label: capability, oracle, test, ledger label. The verification status across all 274 capabilities: 134 Validated, 136 Modelled, 4 Partner-owned" width="100%">
+  <img src="https://raw.githubusercontent.com/AshfordeOU/kshana/main/docs/assets/readme/flow-verification-light.svg" alt="How a capability earns its label: capability, oracle, test, ledger label. The verification status across all 275 capabilities: 135 Validated, 136 Modelled, 4 Partner-owned" width="100%">
 </picture>
 </p>
 

diff --git a/README.pypi.md b/README.pypi.md
@@ -17,7 +17,7 @@
 
 <p align="center">
   <a href="https://github.com/AshfordeOU/kshana/releases"><img src="https://img.shields.io/badge/release-v0.35.0-066A86?style=flat-square&labelColor=0A1226" alt="Release v0.35.0"></a>
-  <a href="https://github.com/AshfordeOU/kshana/blob/main/docs/VERIFICATION-MATRIX.md"><img src="https://img.shields.io/badge/validated-134%20external%20oracles-377D0C?style=flat-square&labelColor=0A1226" alt="134 of 274 capabilities validated against independent external oracles"></a>
+  <a href="https://github.com/AshfordeOU/kshana/blob/main/docs/VERIFICATION-MATRIX.md"><img src="https://img.shields.io/badge/validated-135%20external%20oracles-377D0C?style=flat-square&labelColor=0A1226" alt="135 of 275 capabilities validated against independent external oracles"></a>
   <a href="https://github.com/AshfordeOU/kshana/blob/main/docs/COVERAGE.md"><img src="https://img.shields.io/badge/coverage-~95%25-377D0C?style=flat-square&labelColor=0A1226" alt="About 95% line coverage, gated at 85% in continuous integration"></a>
   <a href="https://github.com/AshfordeOU/kshana/blob/main/LICENSE"><img src="https://img.shields.io/badge/licence-AGPL--3.0--only-3F4B67?style=flat-square&labelColor=0A1226" alt="Licence: AGPL-3.0-only, or a commercial licence"></a>
   <a href="https://doi.org/10.5281/zenodo.20528627"><img src="https://img.shields.io/badge/DOI-10.5281%2Fzenodo.20528627-7E4B00?style=flat-square&labelColor=0A1226" alt="DOI 10.5281/zenodo.20528627"></a>
@@ -40,7 +40,7 @@ engine in your browser, compiled to WebAssembly, and uploads nothing.
 
 ## Evidence
 
-**134 of 274** capabilities validated against independent external oracles; 136 honestly labelled Modelled, 4 partner-owned.
+**135 of 275** capabilities validated against independent external oracles; 136 honestly labelled Modelled, 4 partner-owned.
 Each capability carries one label in a machine-checked ledger: VALIDATED (an independent
 external oracle agrees: real data, an independent implementation or published reference
 vectors), MODELLED (internally consistent, and said out loud) or PARTNER (a hardware partner
@@ -51,7 +51,7 @@ Cowell force model to 0.08 m against Orekit 12.2.
 <p align="center">
 <picture>
   <source media="(prefers-color-scheme: dark)" srcset="https://raw.githubusercontent.com/AshfordeOU/kshana/main/docs/assets/readme/flow-verification-dark.svg">
-  <img src="https://raw.githubusercontent.com/AshfordeOU/kshana/main/docs/assets/readme/flow-verification-light.svg" alt="How a capability earns its label: capability, oracle, test, ledger label. The verification status across all 274 capabilities: 134 Validated, 136 Modelled, 4 Partner-owned" width="100%">
+  <img src="https://raw.githubusercontent.com/AshfordeOU/kshana/main/docs/assets/readme/flow-verification-light.svg" alt="How a capability earns its label: capability, oracle, test, ledger label. The verification status across all 275 capabilities: 135 Validated, 136 Modelled, 4 Partner-owned" width="100%">
 </picture>
 </p>
 
